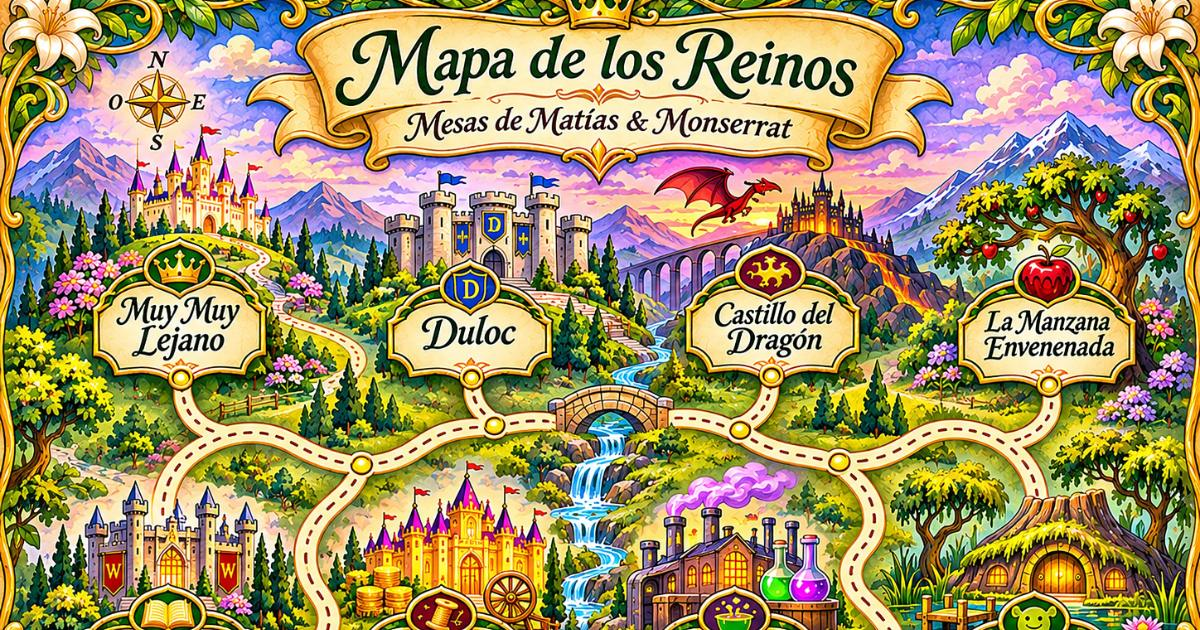
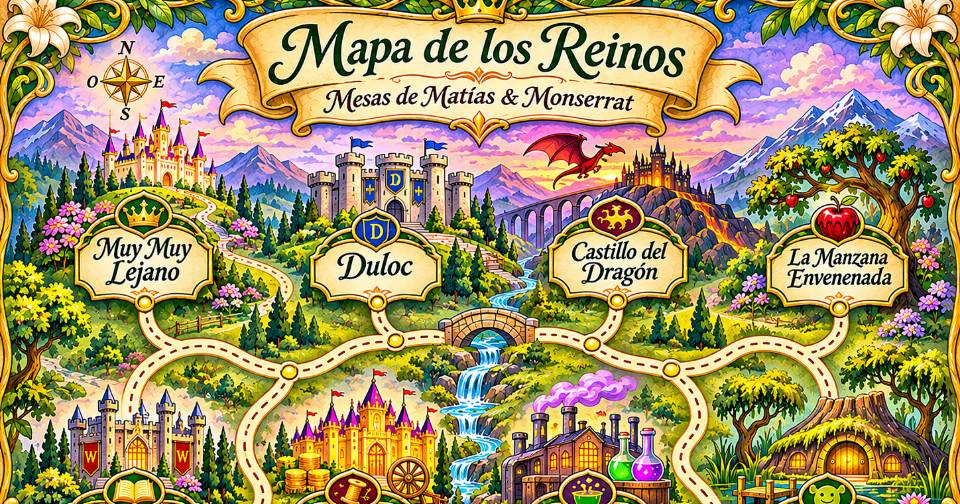
Imagen de vista previa más liviana para WhatsApp
WhatsApp leía el título y la descripción pero no la imagen (298 KB, al
límite de ~300 KB que acepta). Se reduce a 960x504 / 196 KB y se agregan
og:image:type y og:image:secure_url.

Changed region(s): [[0.0, 0.0, 1.0, 1.0]]

diff --git a/index.html b/index.html
@@ -12,9 +12,11 @@
 <meta property="og:url" content="https://mrtitan2.github.io/mimatrimonio/">
 <meta property="og:title" content="Mapa de los Reinos · Matías & Monserrat">
 <meta property="og:description" content="Encuentra tu lugar en nuestra historia · 12.12.2026">
-<meta property="og:image" content="https://mrtitan2.github.io/mimatrimonio/assets/og.jpg">
-<meta property="og:image:width" content="1200">
-<meta property="og:image:height" content="630">
+<meta property="og:image" content="https://mrtitan2.github.io/mimatrimonio/assets/og.jpg?v=2">
+<meta property="og:image:secure_url" content="https://mrtitan2.github.io/mimatrimonio/assets/og.jpg?v=2">
+<meta property="og:image:type" content="image/jpeg">
+<meta property="og:image:width" content="960">
+<meta property="og:image:height" content="504">
 <meta property="og:image:alt" content="Mapa de los Reinos con las mesas de Matías y Monserrat">
 <meta name="twitter:card" content="summary_large_image">
 <link rel="icon" type="image/png" href="./assets/icono.png">
